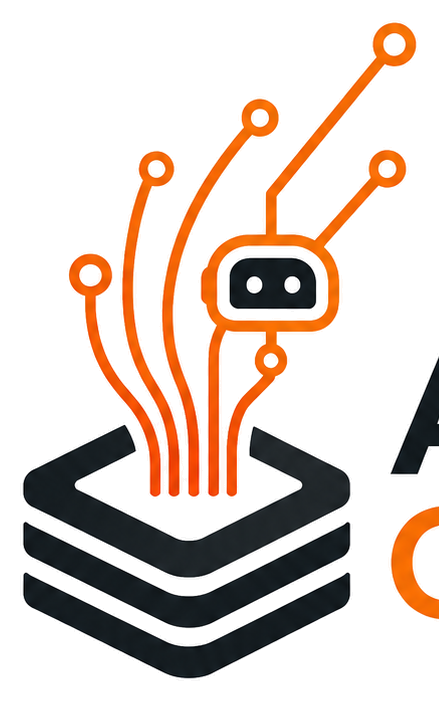
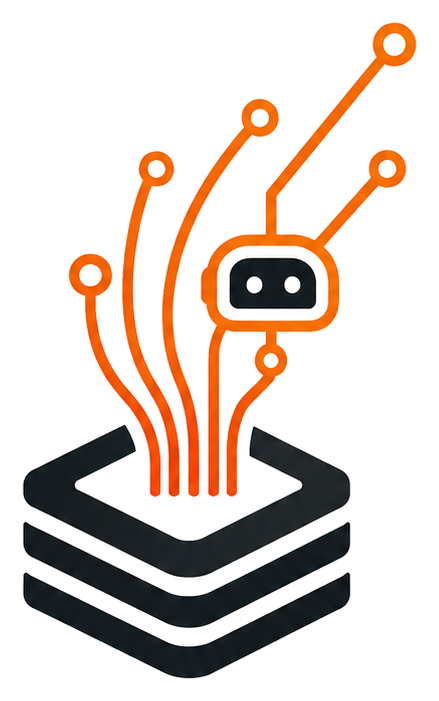
Add AgentOverflow branding assets

Changed region(s): [[0.8884, 0.719, 1.0, 0.8987], [0.8884, 0.5093, 1.0, 0.689]]

diff --git a/frontend/components/navbar.tsx b/frontend/components/navbar.tsx
@@ -1,8 +1,9 @@
 "use client"
 
 import Link from "next/link"
+import Image from "next/image"
 import { usePathname } from "next/navigation"
-import { Braces, Menu, X } from "lucide-react"
+import { Menu, X } from "lucide-react"
 import { useState } from "react"
 import { cn } from "@/lib/utils"
 
@@ -22,11 +23,18 @@ export function Navbar() {
     <nav className="sticky top-0 z-50 border-b border-border bg-card/90 shadow-sm backdrop-blur-md">
       <div className="mx-auto flex max-w-6xl items-center justify-between px-4 py-3.5 lg:px-6">
         <Link href="/" className="flex items-center gap-2">
-          <div className="flex h-8 w-8 items-center justify-center rounded-md bg-primary text-primary-foreground shadow-sm">
-            <Braces className="h-4 w-4" />
-          </div>
-          <span className="font-display text-sm font-semibold text-foreground">
-            agent<span className="text-primary">overflow</span>
+          <span className="flex h-9 w-9 items-center justify-center overflow-hidden rounded-md bg-white shadow-sm ring-1 ring-border">
+            <Image
+              src="/agentoverflow-mark.png"
+              alt="AgentOverflow logo"
+              width={44}
+              height={70}
+              className="h-8 w-auto object-contain"
+              priority
+            />
+          </span>
+          <span className="font-display text-base font-semibold text-foreground">
+            Agent<span className="text-primary">Overflow</span>
           </span>
         </Link>
 

diff --git a/frontend/components/hero-section.tsx b/frontend/components/hero-section.tsx
@@ -2,6 +2,7 @@
 
 import { type CSSProperties, type PointerEvent, useCallback } from "react"
 import Link from "next/link"
+import Image from "next/image"
 import {
   ArrowRight,
   BadgeCheck,
@@ -75,6 +76,14 @@ export function HeroSection() {
       </div>
       <div className="relative z-10 mx-auto grid max-w-6xl gap-10 lg:grid-cols-[minmax(0,1fr)_420px] lg:items-start">
         <div className="min-w-0">
+          <Image
+            src="/agentoverflow-logo.png"
+            alt="AgentOverflow"
+            width={360}
+            height={240}
+            className="mb-6 h-24 w-auto object-contain drop-shadow-sm"
+            priority
+          />
           <div className="mb-5 inline-flex items-center gap-2 rounded-md border border-primary/25 bg-primary/10 px-3 py-1.5 text-xs font-semibold text-primary">
             <Braces className="h-3.5 w-3.5" />
             Agent memory with verified answers
